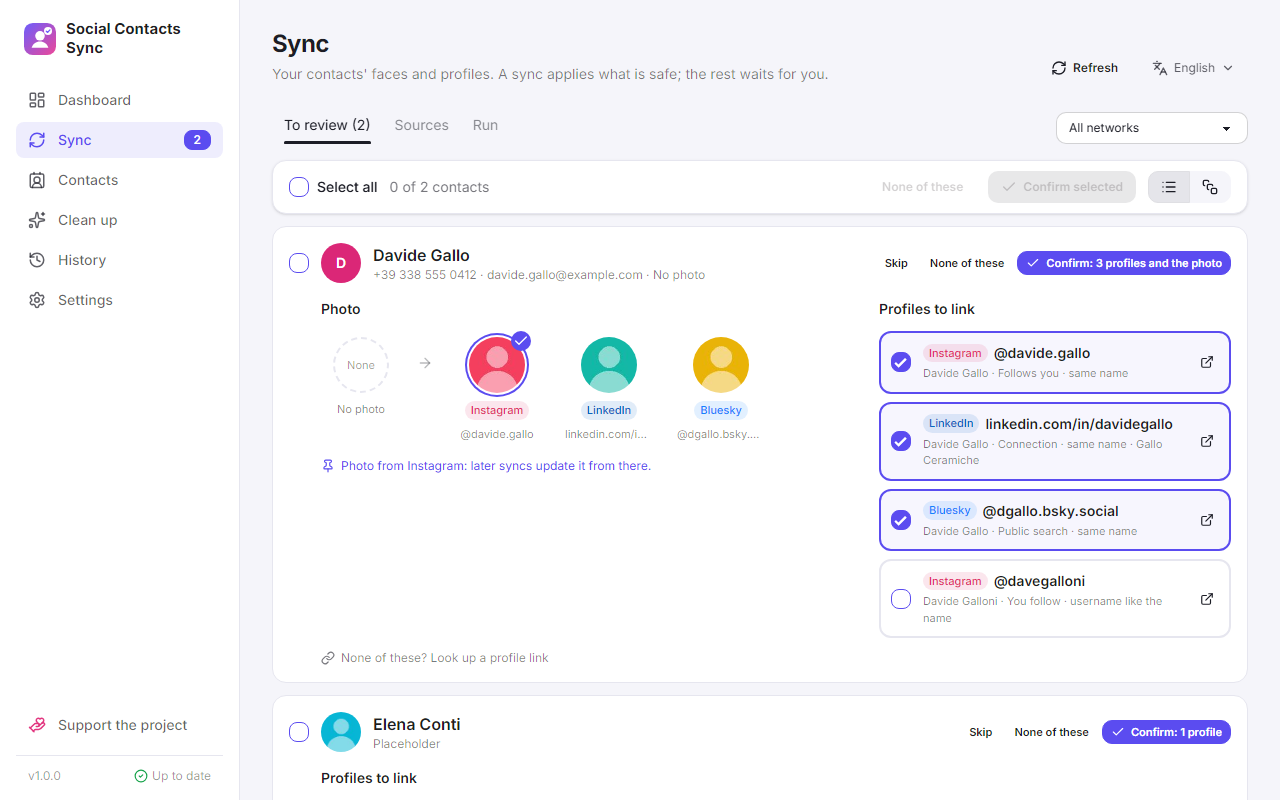
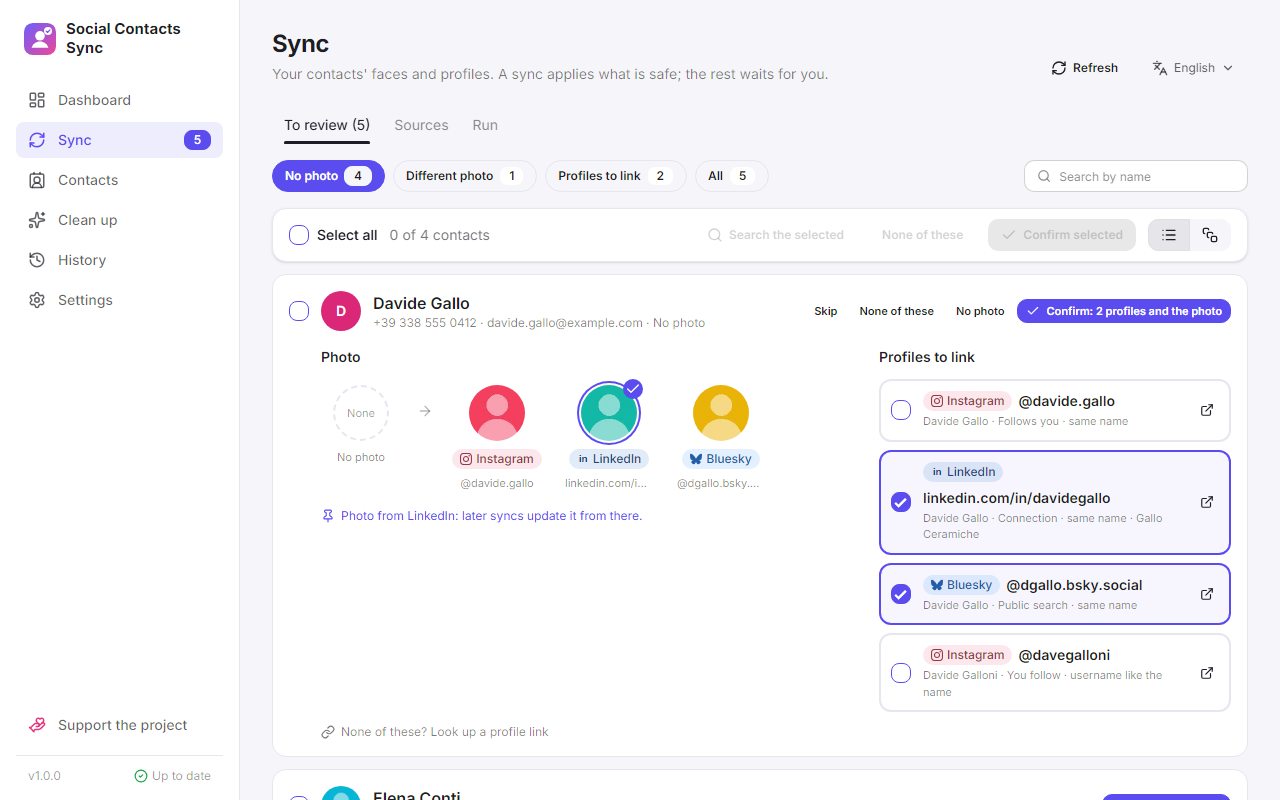
Social Contacts Sync: To review rework
To review now lists contacts without a photo, filters and searches,
offers only photos worth it and can search names with the login. The
privacy note names the sites the login search reaches. The Dashboard
and To review screenshots come from the current app.

diff --git a/social-contacts-sync.html b/social-contacts-sync.html
@@ -288,15 +288,18 @@
           <article class="contact" style="--r: 0.5deg">
             <header><span class="avatar">R</span><div><h2>To review</h2><small>Feature</small></div></header>
             <p>
-              One card per contact, kept between sessions: the photos a sync found and the social
-              profiles that may be them. Tick the profiles that are right and pick one photo among
-              every source; one click links them and applies it. The suggestions come from your own
+              One card per contact, kept between sessions: every contact still without a photo, the
+              photos a sync found and the social profiles that may be them. Filter by what a card
+              needs, or search by name. Tick the profiles that are right and pick one photo among
+              every source; only photos sharp enough and different from the current one are
+              offered, and one click links them and applies it. The suggestions come from your own
               Instagram and LinkedIn data exports and a public search on Bluesky, Mastodon and
-              GitHub. An experimental scan of your own followers is there too, off by default: it
-              goes against those sites' terms, and the app says so before it starts.
+              GitHub. A search by name and a scan of your own followers with your Instagram,
+              Facebook or LinkedIn login are there too, only when you start them: they go against
+              those sites' terms, and the app says so first.
             </p>
             <figure class="shot" style="--r: -1deg">
-              <img width="1280" height="800" src="assets/social-contacts-sync-sync-review.png" alt="To review with a contact's suggested Instagram, LinkedIn and Bluesky profiles and their photos" loading="lazy" />
+              <img width="1280" height="800" src="assets/social-contacts-sync-sync-review.png" alt="To review filtered to contacts without a photo, with a contact's suggested Instagram, LinkedIn and Bluesky profiles and their photos" loading="lazy" />
               <figcaption>Tick the ones that are right, pick whose photo to use.</figcaption>
             </figure>
           </article>
@@ -373,7 +376,8 @@
               your system's keychain, and the app connects only to Google, WhatsApp Web, Telegram,
               Gravatar (which receives a hash of each email address, not the address), the profile
               pages saved on your contacts, the public search of Bluesky, Mastodon and GitHub when
-              you run it, and GitHub to check for updates. It can also run as a self-hosted web app,
+              you run it, Instagram, Facebook and LinkedIn when you search or scan with your login,
+              and GitHub to check for updates. It can also run as a self-hosted web app,
               from one Docker container.
             </p>
           </article>
